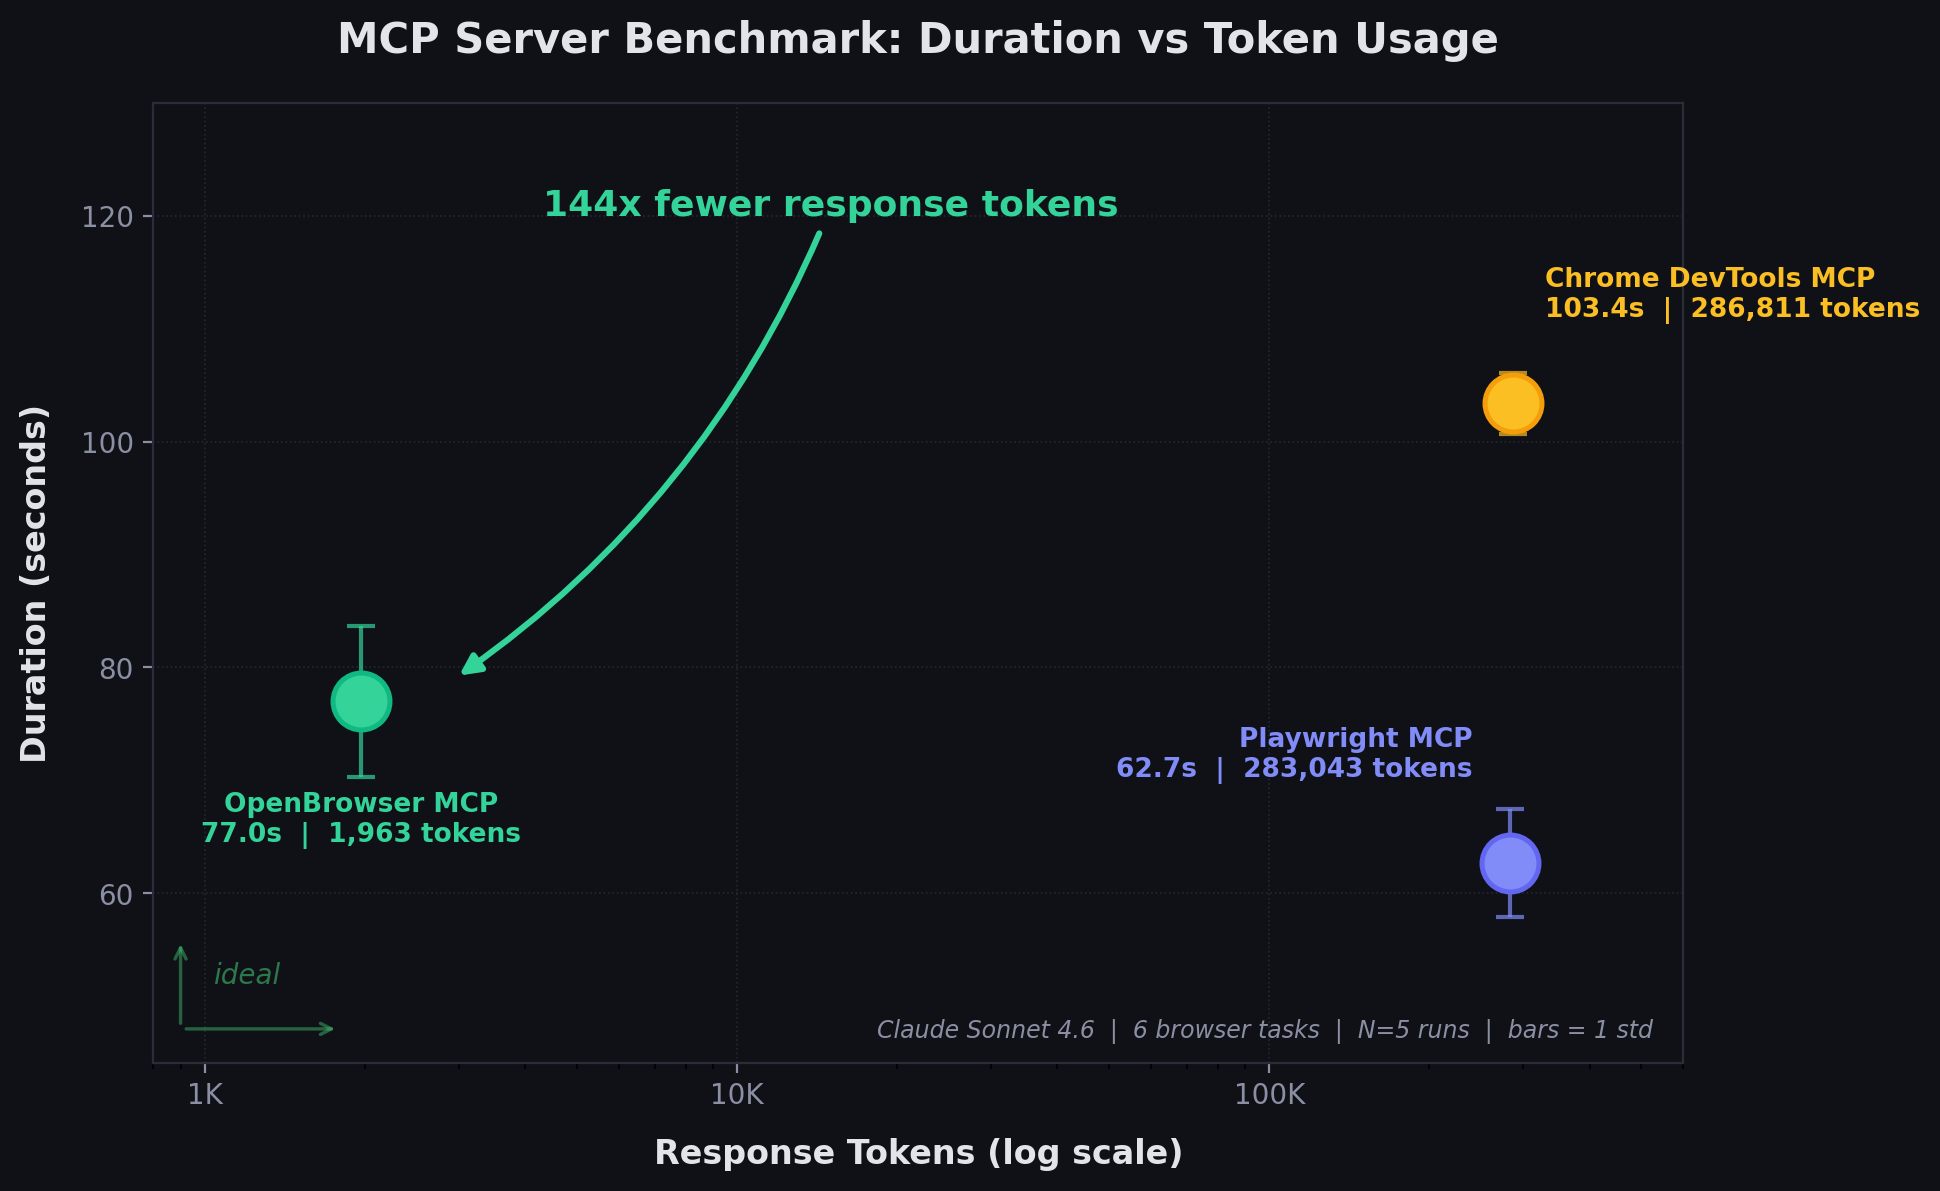
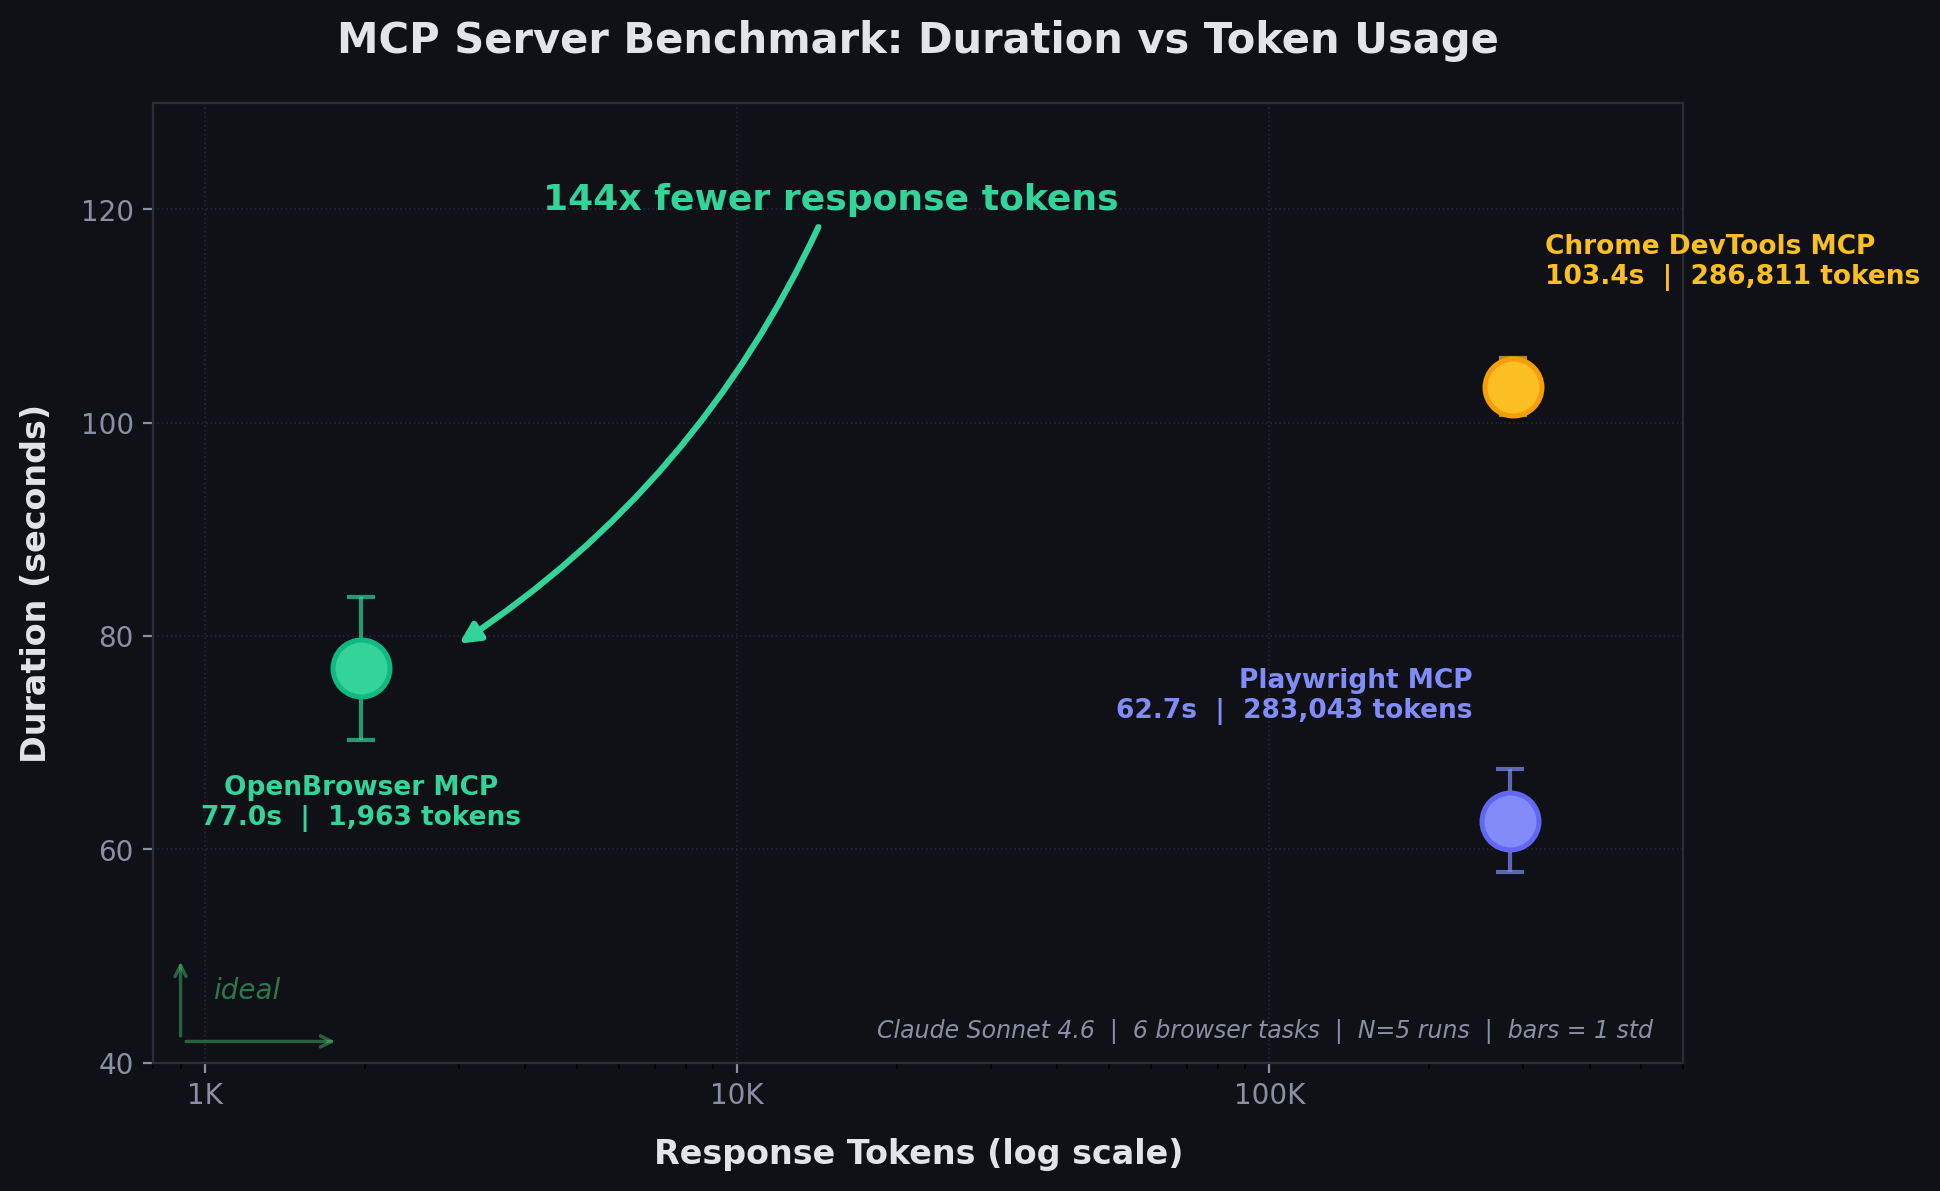
feat(landing): update benchmark data, add plot, replace GPT-4 with GPT 5.2
- Update token bars to match E2E LLM benchmark (N=5 runs):
  Chrome DevTools 299,486 | Playwright 158,787 | OpenBrowser 50,195
- Update claims to 3.2x (Playwright) and 6x (Chrome DevTools)
- Add benchmark comparison plot to Text-First Architecture card
- Replace GPT-4 with GPT 5.2 in provider pills
- Update meta description with 144x response token ratio
- Fix plot_benchmark.py data to match authoritative comparison doc

diff --git a/landing/src/components/sections/Features.tsx b/landing/src/components/sections/Features.tsx
@@ -137,30 +137,30 @@ function TokenBars() {
       <div>
         <div className="flex items-center justify-between text-xs text-slate-400 mb-1">
           <span>Chrome DevTools MCP</span>
-          <span>310,856 tokens</span>
+          <span>299,486 tokens</span>
         </div>
         <div className="h-8 rounded-lg bg-red-500/80 w-full flex items-center px-3">
-          <span className="text-xs font-medium text-white/90">310,856</span>
+          <span className="text-xs font-medium text-white/90">299,486</span>
         </div>
       </div>
       {/* Playwright MCP */}
       <div>
         <div className="flex items-center justify-between text-xs text-slate-400 mb-1">
           <span>Playwright MCP</span>
-          <span>150,248 tokens</span>
+          <span>158,787 tokens</span>
         </div>
-        <div className="h-8 rounded-lg bg-yellow-500/80 w-[48%] flex items-center px-3">
-          <span className="text-xs font-medium text-white/90">150,248</span>
+        <div className="h-8 rounded-lg bg-yellow-500/80 w-[53%] flex items-center px-3">
+          <span className="text-xs font-medium text-white/90">158,787</span>
         </div>
       </div>
       {/* OpenBrowser MCP */}
       <div>
         <div className="flex items-center justify-between text-xs text-slate-400 mb-1">
           <span>OpenBrowser MCP</span>
-          <span>49,423 tokens</span>
+          <span>50,195 tokens</span>
         </div>
-        <div className="h-8 rounded-lg bg-cyan-500 w-[16%] min-w-[5rem] flex items-center px-2">
-          <span className="text-xs font-medium text-white/90">49,423</span>
+        <div className="h-8 rounded-lg bg-cyan-500 w-[17%] min-w-[5rem] flex items-center px-2">
+          <span className="text-xs font-medium text-white/90">50,195</span>
         </div>
       </div>
     </div>
@@ -172,7 +172,7 @@ function TokenBars() {
 /* ------------------------------------------------------------------ */
 
 function ProviderPills() {
-  const providers = ["Gemini", "GPT-4", "Claude", "DeepSeek", "Groq", "Ollama", "Qwen", "Azure", "Bedrock", "OpenRouter", "Novita", "LiteLLM"];
+  const providers = ["Gemini", "GPT 5.2", "Claude", "DeepSeek", "Groq", "Ollama", "Qwen", "Azure", "Bedrock", "OpenRouter", "Novita", "LiteLLM"];
   return (
     <div className="flex flex-wrap gap-2 mt-4">
       {providers.map((p) => (
@@ -297,9 +297,16 @@ export function Features() {
               Text-First Architecture
             </h3>
             <p className="text-slate-400 mt-2">
-              3x fewer tokens than Playwright MCP. 6.3x fewer than Chrome DevTools MCP. Text, not screenshots.
+              3.2x fewer tokens than Playwright MCP. 6x fewer than Chrome DevTools MCP. Text, not screenshots.
             </p>
             <TokenBars />
+            <div className="mt-6 rounded-xl overflow-hidden border border-white/[0.08]">
+              <img
+                src="/benchmark_comparison.png"
+                alt="MCP Server Benchmark: Duration vs Token Usage -- OpenBrowser uses 144x fewer response tokens"
+                className="w-full"
+              />
+            </div>
           </FeatureCard>
 
           {/* Card 2: Any LLM Provider */}

diff --git a/landing/src/app/layout.tsx b/landing/src/app/layout.tsx
@@ -15,11 +15,11 @@ const geistMono = Geist_Mono({
 export const metadata: Metadata = {
   title: "OpenBrowser - The General-Purpose Agentic Browser",
   description:
-    "Control any browser with natural language. 877x more token-efficient than alternatives. Open source.",
+    "Control any browser with natural language. 6x fewer tokens than Chrome DevTools MCP. 144x fewer response tokens. Open source.",
   openGraph: {
     title: "OpenBrowser - The General-Purpose Agentic Browser",
     description:
-      "Control any browser with natural language. 877x more token-efficient than alternatives. Open source.",
+      "Control any browser with natural language. 6x fewer tokens than Chrome DevTools MCP. 144x fewer response tokens. Open source.",
     url: "https://openbrowser.me",
     siteName: "OpenBrowser",
     type: "website",

diff --git a/landing/src/components/sections/Hero.tsx b/landing/src/components/sections/Hero.tsx
@@ -33,7 +33,7 @@ export function Hero() {
 
         {/* Subheadline */}
         <p className="text-lg md:text-xl text-slate-400 max-w-2xl">
-          Give your AI agent a real browser. 3x more token-efficient
+          Give your AI agent a real browser. 3.2x more token-efficient
           than Playwright MCP. 6x more than Chrome DevTools MCP.
         </p>
 

diff --git a/benchmarks/plot_benchmark.py b/benchmarks/plot_benchmark.py
@@ -13,12 +13,13 @@ from pathlib import Path
 
 labels = ["Playwright MCP", "Chrome DevTools MCP", "OpenBrowser MCP"]
 
-# Duration (seconds) -- mean +/- std
-duration_mean = np.array([92.2, 128.8, 103.1])
-duration_std = np.array([11.4, 6.2, 16.4])
+# Duration (seconds) -- mean +/- std (from docs/comparison.mdx E2E benchmark)
+duration_mean = np.array([62.7, 103.4, 77.0])
+duration_std = np.array([4.8, 2.7, 6.7])
 
 # Response tokens (estimated from MCP tool response chars / 4)
-response_tokens = np.array([283_853, 301_030, 1_665])
+# Playwright: 1,132,173/4 = 283,043 | Chrome DevTools: 1,147,244/4 = 286,811 | OpenBrowser: 7,853/4 = 1,963
+response_tokens = np.array([283_043, 286_811, 1_963])
 
 # Colors
 COLORS = ["#818cf8", "#fbbf24", "#34d399"]       # indigo-400, amber-400, emerald-400
@@ -98,9 +99,9 @@ for i, (tok, dur, label) in enumerate(zip(response_tokens, duration_mean, labels
 
 # "170x fewer tokens" callout arrow from mid-chart to OpenBrowser dot
 ax.annotate(
-    "170x fewer tokens",
+    "144x fewer response tokens",
     xy=(response_tokens[2] * 1.5, duration_mean[2] + 2),
-    xytext=(15_000, 150),
+    xytext=(15_000, 120),
     fontsize=13,
     fontweight="800",
     color="#34d399",
@@ -122,7 +123,7 @@ ax.set_ylabel("Duration (seconds)", fontsize=12, fontweight="600",
               color=TEXT, labelpad=10)
 ax.set_xscale("log")
 ax.set_xlim(800, 600_000)
-ax.set_ylim(55, 160)
+ax.set_ylim(40, 130)
 
 # X-axis formatter
 def token_fmt(val, pos):
@@ -152,21 +153,21 @@ ax.text(
 # Ideal zone
 ax.annotate(
     "ideal",
-    xy=(1_200, 62),
+    xy=(1_200, 46),
     fontsize=10, fontstyle="italic", fontweight="500",
     color="#4ade80", alpha=0.5,
     ha="center",
 )
 ax.annotate(
     "",
-    xy=(900, 58),
-    xytext=(1_800, 58),
+    xy=(900, 42),
+    xytext=(1_800, 42),
     arrowprops=dict(arrowstyle="<-", color="#4ade80", linewidth=1.2, alpha=0.4),
 )
 ax.annotate(
     "",
-    xy=(900, 58),
-    xytext=(900, 66),
+    xy=(900, 42),
+    xytext=(900, 50),
     arrowprops=dict(arrowstyle="<-", color="#4ade80", linewidth=1.2, alpha=0.4),
 )
 
@@ -178,5 +179,9 @@ fig.savefig(out_path, dpi=200, bbox_inches="tight", facecolor=fig.get_facecolor(
 docs_path = Path(__file__).parent.parent / "docs" / "images" / "benchmark_comparison.png"
 fig.savefig(docs_path, dpi=200, bbox_inches="tight", facecolor=fig.get_facecolor())
 
+landing_path = Path(__file__).parent.parent / "landing" / "public" / "benchmark_comparison.png"
+fig.savefig(landing_path, dpi=200, bbox_inches="tight", facecolor=fig.get_facecolor())
+
 print(f"Saved to {out_path}")
 print(f"Saved to {docs_path}")
+print(f"Saved to {landing_path}")
